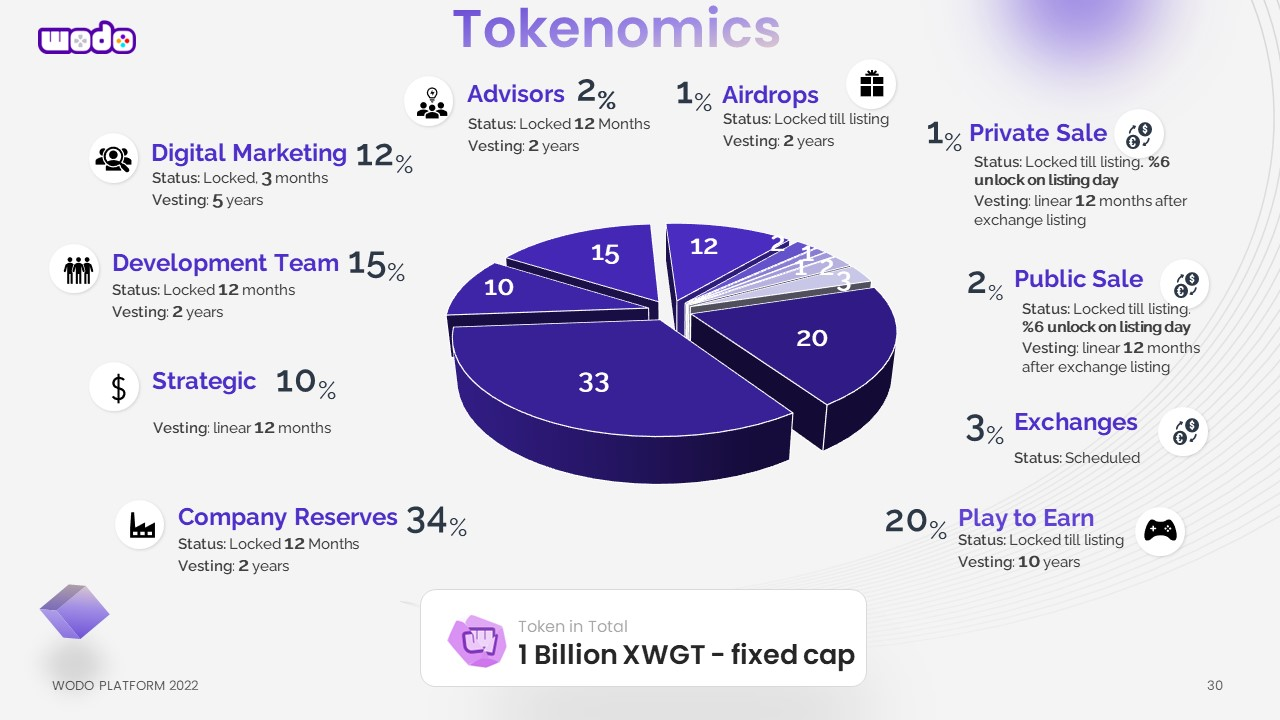
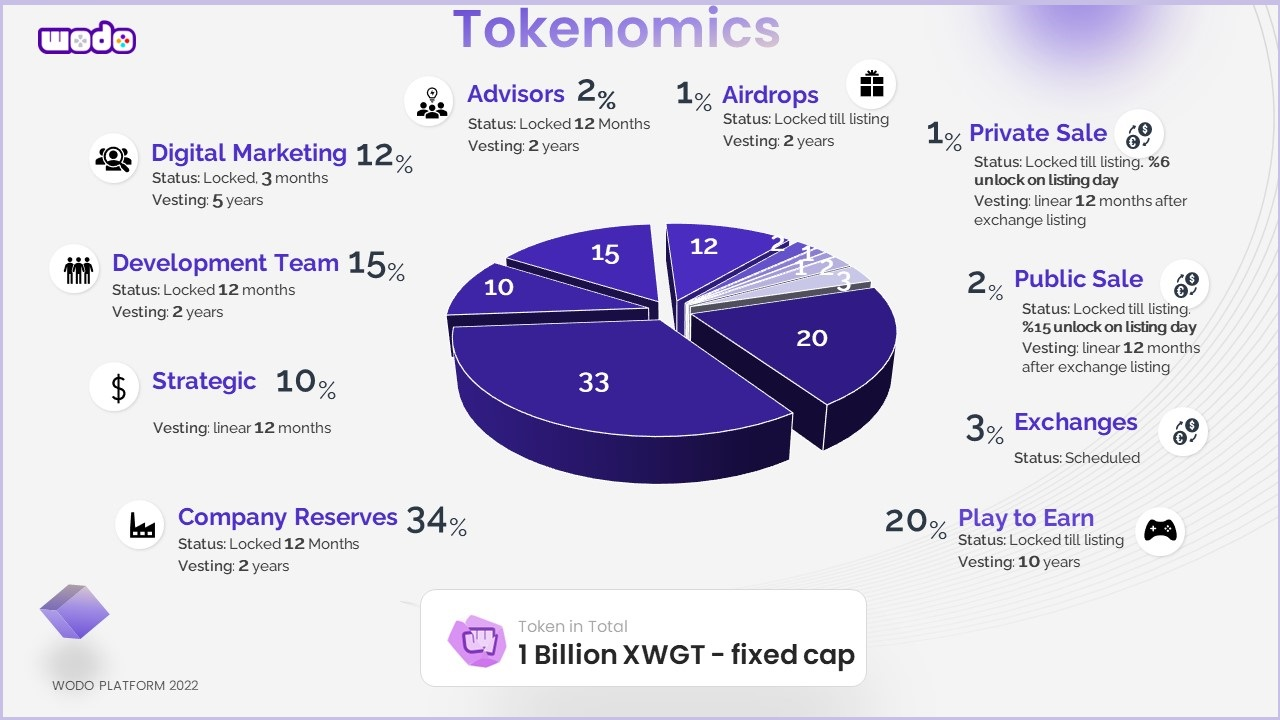
GitBook: [#586] No subject

diff --git a/docs/tokenomics/wodo-gaming-token/README.md b/docs/tokenomics/wodo-gaming-token/README.md
@@ -41,21 +41,21 @@ The fixed-capped total supply is **1.000.000.000** (billion) XWGT. **%20** of th
 
 ![](../../.gitbook/assets/Slide26.JPG)
 
-| Allocation                                           | Wallet                                                                                      | Lock                                                                                                                                         |
-| ---------------------------------------------------- | ------------------------------------------------------------------------------------------- | -------------------------------------------------------------------------------------------------------------------------------------------- |
-| **Private Sale - 1%**                                | <p><strong>Address</strong>: To be updated </p><p><strong>Locked Contract</strong>: TBU</p> | <p><strong><code>Lock:</code></strong>till exhange listing</p><p><strong><code>Vesting</code> 12</strong> months linear </p>                 |
-| **Public Sale - 2%**                                 | <p><strong>Address</strong>: To be updated </p><p><strong>Locked Contract</strong>: TBU</p> | <p><strong><code>Lock:</code></strong>till exhange listing</p><p><strong><code>Vesting:</code>12</strong> months linear </p>                 |
-| **Exhange Listing - 3%**                             | <p><strong>Address</strong>: To be updated </p><p><strong>Locked Contract</strong>: TBU</p> |                                                                                                                                              |
-| :game\_die: Play to earn - **%20**                   | <p><strong>Address</strong>: To be updated </p><p><strong>Locked Contract</strong>: TBU</p> | <p><strong><code>Lock:</code></strong> till exhange listing<br><strong><code>Vesting</code>:</strong> <strong>120</strong> months linear</p> |
-| :briefcase: Company reserve - **%34**                | <p><strong>Address</strong>: To be updated </p><p><strong>Locked Contract</strong>: TBU</p> | <p><strong><code>Lock:</code> 12</strong> Months<br><strong><code>Vesting</code>:</strong> <strong>24</strong> months linear</p>             |
-| :people\_with\_bunny\_ears\_partying: Team - **%15** | <p><strong>Address</strong>: To be updated </p><p><strong>Locked Contract</strong>: TBU</p> | <p><strong><code>Lock:</code> 12</strong> Months<br><strong><code>Vesting</code>:</strong> <strong>24</strong> months linear</p>             |
-| :sound: Marketing & Social media - **%12**           | <p><strong>Address</strong>: To be updated </p><p><strong>Locked Contract</strong>: TBU</p> | <p><strong><code>Lock:</code> 3</strong> Months<br><strong><code>Vesting</code>:</strong> <strong>60</strong>  months linear</p>             |
-| :woman\_office\_worker: Advisors - **%2**            | <p><strong>Address</strong>: To be updated </p><p><strong>Locked Contract</strong>: TBU</p> | <p><strong><code>Lock:</code> 12</strong>  Months<br><strong><code>Vesting</code>:</strong> <strong>24</strong> months linear</p>            |
-| :gift: Airdrop - **%1**                              | <p><strong>Address</strong>: To be updated </p><p><strong>Locked Contract</strong>: TBU</p> | <p><strong><code>Lock:</code></strong> till exhange listing<br><strong><code>Vesting</code>:</strong> <strong>24</strong> months linear</p>  |
-| :8ball: Strategic - **%10**                          | <p><strong>Address</strong>: To be updated </p><p><strong>Locked Contract</strong>: TBU</p> | **Vesting:** **12** Months linear                                                                                                            |
-|                                                      |                                                                                             |                                                                                                                                              |
-|                                                      |                                                                                             |                                                                                                                                              |
-|                                                      |                                                                                             |                                                                                                                                              |
+| Allocation                                           | Wallet                                                                                      | Lock                                                                                                                                                                                            |
+| ---------------------------------------------------- | ------------------------------------------------------------------------------------------- | ----------------------------------------------------------------------------------------------------------------------------------------------------------------------------------------------- |
+| **Private Sale - 1%**                                | <p><strong>Address</strong>: To be updated </p><p><strong>Locked Contract</strong>: TBU</p> | <p><strong><code>Lock:</code></strong>till exhange listing</p><p><strong><code>Vesting: %6</code></strong><code> unlock at listing</code><strong><code>,</code>  12</strong> months linear </p> |
+| **Public Sale - 2%**                                 | <p><strong>Address</strong>: To be updated </p><p><strong>Locked Contract</strong>: TBU</p> | <p><strong><code>Lock:</code></strong>till exhange listing</p><p><strong><code>Vesting: %15</code></strong><code> unlock at listing</code><strong><code>,</code> 12</strong> months linear </p> |
+| **Exhange Listing - 3%**                             | <p><strong>Address</strong>: To be updated </p><p><strong>Locked Contract</strong>: TBU</p> |                                                                                                                                                                                                 |
+| :game\_die: Play to earn - **%20**                   | <p><strong>Address</strong>: To be updated </p><p><strong>Locked Contract</strong>: TBU</p> | <p><strong><code>Lock:</code></strong> till exhange listing<br><strong><code>Vesting</code>:</strong> <strong>120</strong> months linear</p>                                                    |
+| :briefcase: Company reserve - **%34**                | <p><strong>Address</strong>: To be updated </p><p><strong>Locked Contract</strong>: TBU</p> | <p><strong><code>Lock:</code> 12</strong> Months<br><strong><code>Vesting</code>:</strong> <strong>24</strong> months linear</p>                                                                |
+| :people\_with\_bunny\_ears\_partying: Team - **%15** | <p><strong>Address</strong>: To be updated </p><p><strong>Locked Contract</strong>: TBU</p> | <p><strong><code>Lock:</code> 12</strong> Months<br><strong><code>Vesting</code>:</strong> <strong>24</strong> months linear</p>                                                                |
+| :sound: Marketing & Social media - **%12**           | <p><strong>Address</strong>: To be updated </p><p><strong>Locked Contract</strong>: TBU</p> | <p><strong><code>Lock:</code> 3</strong> Months<br><strong><code>Vesting</code>:</strong> <strong>60</strong>  months linear</p>                                                                |
+| :woman\_office\_worker: Advisors - **%2**            | <p><strong>Address</strong>: To be updated </p><p><strong>Locked Contract</strong>: TBU</p> | <p><strong><code>Lock:</code> 12</strong>  Months<br><strong><code>Vesting</code>:</strong> <strong>24</strong> months linear</p>                                                               |
+| :gift: Airdrop - **%1**                              | <p><strong>Address</strong>: To be updated </p><p><strong>Locked Contract</strong>: TBU</p> | <p><strong><code>Lock:</code></strong> till exhange listing<br><strong><code>Vesting</code>:</strong> <strong>24</strong> months linear</p>                                                     |
+| :8ball: Strategic - **%10**                          | <p><strong>Address</strong>: To be updated </p><p><strong>Locked Contract</strong>: TBU</p> | **Vesting:** **12** Months linear                                                                                                                                                               |
+|                                                      |                                                                                             |                                                                                                                                                                                                 |
+|                                                      |                                                                                             |                                                                                                                                                                                                 |
+|                                                      |                                                                                             |                                                                                                                                                                                                 |
 
 ### Circulated Tokens Timeline
 
